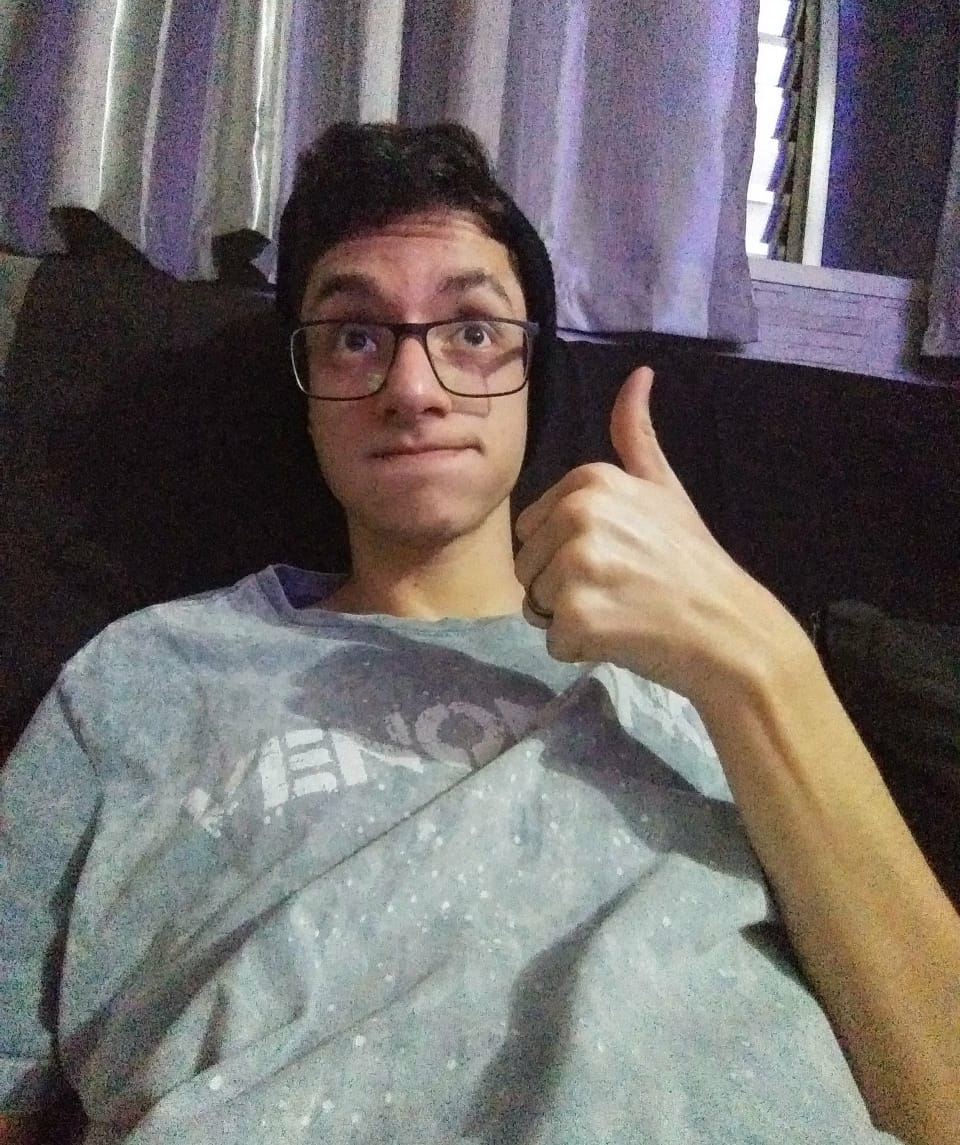
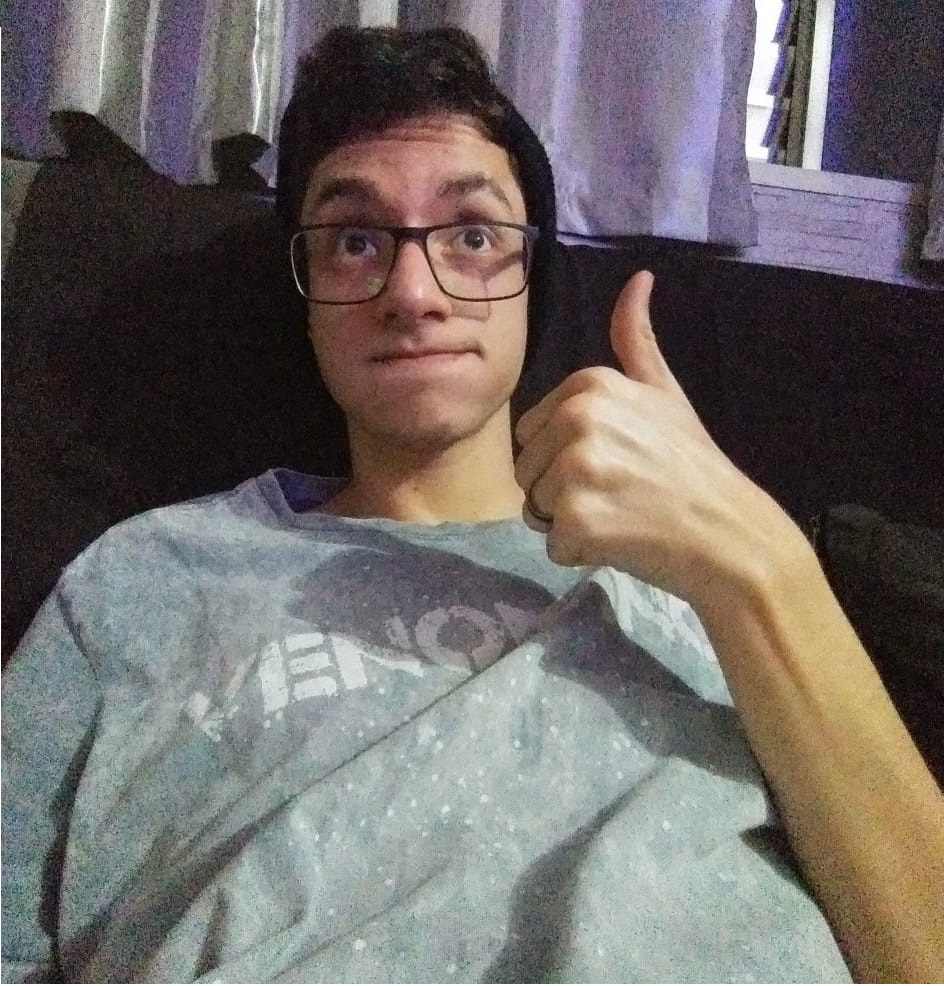
Atualização celular
-Edição do perfil
-Arrumando a foto de perfil
-Skill adicionada

diff --git a/index.html b/index.html
@@ -31,11 +31,19 @@
       </span>
     </div>
 
-      <section class="biografia"  class="hide-on-large-only">
-        <div id="secao-02" class="secao">
+      <section class="biografia">
+        <div id="secao-02" class="secao" class="hide-on-large-only">
           <h1 class="hide-on-large-only">Biografia</h1>
-            <img class="img-biografia" class="hide-on-large-only" src="./img/perfil.png">
+            <img class="img-biografia hide-on-large-only"  src="./img/perfil.png">
+            <img  class="img-perfil circle hide-on-large-only" src="./img/img_perfil.jpg">
+              <h2 class="hide-on-large-only">Nome: Wendel De O. Silvestre <br>Idade: 17<br>Telefone: (11) 94919-7690<br>Email: wendelsilvestre9@gmail.com </h2>
         </div>
+      </section>
+
+      <section class="skill">
+        <h1 class="hide-on-large-only">Skill</h1>
+
+
       </section>
 
     <!--Tela do computador-->

diff --git a/css/estilos.css b/css/estilos.css
@@ -32,7 +32,7 @@ body{
 }
 
 #secao-01 {
-  height: 245px!important;
+  height: 220px!important;
 }
 
 .icone-scroll{
@@ -66,7 +66,6 @@ body{
   font-size: 3em;
   text-align: center;
   margin-top: 50%;
-  font-family: 'Comic Sans';
   color: #187ec7;
 }
 
@@ -75,6 +74,30 @@ body{
   object-position: center;
   margin-left: 7%;
   width: 95%;
+}
+
+.img-perfil{
+  position: absolute;
+  top: 125%;
+  left: 30%;
+  width: 43%;
+}
+
+.biografia h2{
+  position: absolute;
+  top: 153%;
+  left: 17%;
+  line-height: 30px;
+  font-size: 1.5em;
+  font-family: 'Annie Use Your Telescope', cursive;
+}
+
+.skill h1{
+  width: 100%;
+  font-size: 3em;
+  text-align: center;
+  margin-top: 10%;
+  color: #187ec7;
 }
 
 }
@@ -147,7 +170,6 @@ header {
   font-size: 3em;
   text-align: center;
   margin-bottom: 4em;
-  font-family: 'Comic Sans';
   color: #187ec7;
 }
 
